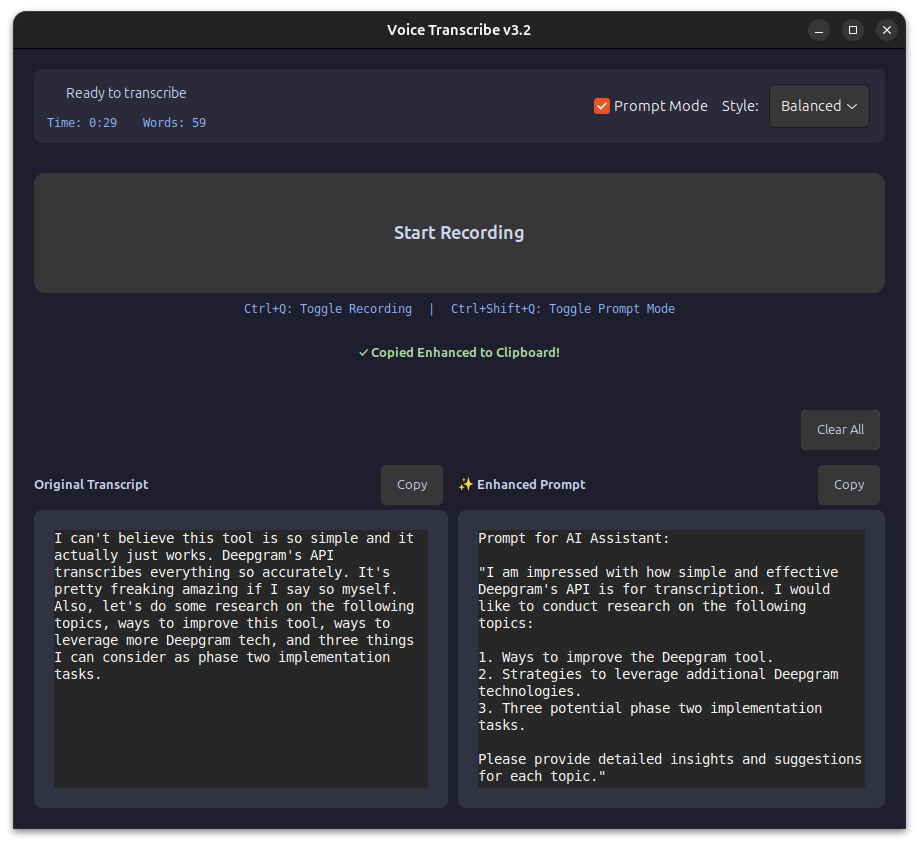
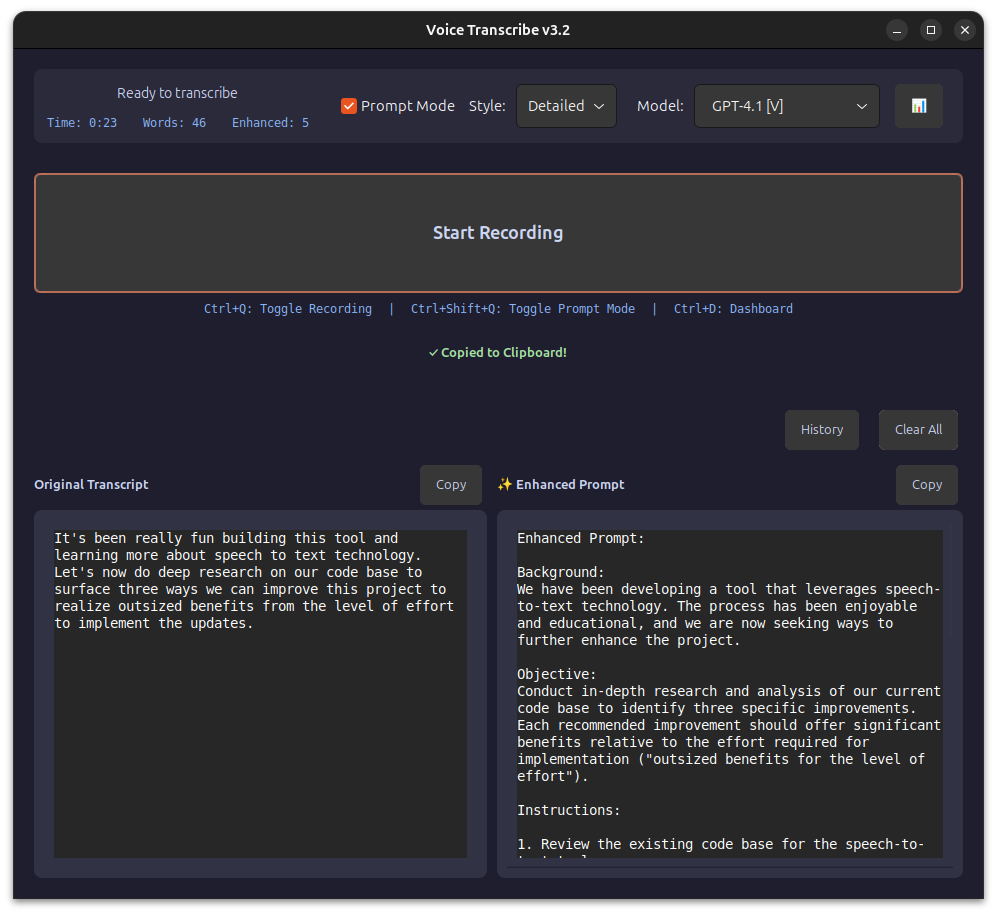
update README

diff --git a/README.md b/README.md
@@ -1,6 +1,11 @@
-# Voice Transcribe v3.2 🎤
+# Voice Transcribe v3.3 🎤
 
 [![CI Pipeline](https://github.com/josephrclick/voice-transcribe/actions/workflows/ci.yml/badge.svg?branch=dev)](https://github.com/josephrclick/voice-transcribe/actions/workflows/ci.yml)
+[![Python](https://img.shields.io/badge/Python-3.8+-blue.svg)](https://python.org)
+[![GTK](https://img.shields.io/badge/GTK-3.0-green.svg)](https://gtk.org)
+[![Deepgram](https://img.shields.io/badge/Deepgram-Nova--3-purple.svg)](https://deepgram.com)
+[![OpenAI](https://img.shields.io/badge/OpenAI-GPT--4.1%20%7C%20GPT--5-orange.svg)](https://openai.com)
+[![Linux](https://img.shields.io/badge/Platform-Linux-yellow.svg)](https://linux.org)
 
 A delightfully simple voice-to-text tool for Linux that just works™. Click button, speak thoughts, get text. Now with ✨ Prompt Mode ✨ for AI-enhanced transcripts!
 
@@ -11,7 +16,7 @@ A delightfully simple voice-to-text tool for Linux that just works™. Click but
 - 🔴 One big button that says "Start Recording" (revolutionary, I know)
 - ⏱ Shows you how long you've been rambling
 - 📊 Counts your words so you know if you're being verbose
-- 📋 Auto-copies to clipboard because Ctrl+C is so 2023
+- 📋 Seamlessly copies to clipboard with modern efficiency
 - 🎨 Dark theme that won't burn your retinas at 3am
 - ⌨ Keyboard shortcuts: Ctrl+Q (record), Ctrl+Shift+Q (Prompt Mode), Ctrl+D (Dashboard)
 - ✨ **NEW: Prompt Mode** - Transforms your rambling into perfect LLM prompts
@@ -104,7 +109,7 @@ cat > ~/.local/share/applications/voice-transcribe.desktop << EOF
 [Desktop Entry]
 Version=1.0
 Type=Application
-Name=Voice Transcribe v3.2
+Name=Voice Transcribe v3.3
 Comment=Speech to text, but cooler
 Exec=$(pwd)/voice-transcribe
 Icon=$(pwd)/images/icon.png
@@ -136,25 +141,7 @@ It's like having a tiny prompt engineer in your computer that takes your stream-
    - **Concise**: For when you need to get to the point
    - **Balanced**: The Goldilocks zone of prompts
    - **Detailed**: For when you need the LLM to really get it
-3. **Select your AI model** (NEW!):
-
-## Available Models
-
-| Model        | Context Window | Max Output | Features        | Tier     | Best For         |
-| ------------ | -------------- | ---------- | --------------- | -------- | ---------------- |
-| GPT-4o Mini  | 128K           | 4,096      | JSON            | Standard | Quick edits      |
-| GPT-4.1 Nano | 1M             | 2,048      | JSON, Verbosity | Economy  | High volume      |
-| GPT-4.1 Mini | 1M             | 4,096      | JSON, Verbosity | Economy  | Longer texts     |
-| GPT-4.1      | 1M             | 8,192      | JSON, Verbosity | Standard | Professional     |
-| GPT-5 Nano   | 400K           | 128,000    | All features    | Economy  | Fast processing  |
-| GPT-5 Mini   | 400K           | 128,000    | All features    | Standard | Creative writing |
-| GPT-5        | 400K           | 128,000    | All features    | Flagship | Complex tasks    |
-
-- **Flagship tier models** offer advanced reasoning capabilities
-- **Context windows**: 128K = ~96K words, 400K = ~300K words, 1M = ~750K words
-- **All models** include automatic fallback chains for reliability
-- Model selection persists between sessions with intelligent fallback handling
-
+3. **Select your AI model** - From economy to flagship tiers with intelligent fallbacks
 4. **Speak naturally** - "um, so like, I need a function that, you know, reads CSVs and stuff"
 5. **Watch the magic** - See a preview while it enhances: "Enhancing: um, so like, I need a function that..."
 6. **Get enhanced** - "Create a Python function that reads CSV files, handles encoding issues, and provides error handling with clear documentation"
@@ -174,7 +161,7 @@ Access comprehensive model information and usage statistics with **Ctrl+D**:
 - **Tier Classifications**: Economy, Standard, and Flagship model comparisons
 - **Context Explanations**: Human-readable descriptions of model capabilities
 
-The dashboard helps you choose the optimal model for specific use cases and understand the trade-offs between speed, capability, and cost.
+The dashboard serves as an excellent learning tool for understanding AI model capabilities and trade-offs. Compare different models' performance characteristics, experiment with various tiers, and gain hands-on experience with cost optimization strategies - perfect for understanding modern AI integration in production applications.
 
 ### Example Transformations
 
@@ -190,13 +177,14 @@ Enhanced: "Create a Python script with these requirements:
 - Include error handling for invalid JSON"
 ```
 
-## Why v3.2?
+## Why v3.3?
 
 - v1: "Hey, this could work!" (Narrator: it didn't)
 - v2: "Let's add ALL the features!" (Spoiler: too many features)
 - v3: "What if we just... made it work?" (Revolutionary concept)
 - v3.1: "What if your rambling made sense?" (Game changer)
 - v3.2: "What if we made it even smoother?" (Quick wins ftw)
+- v3.3: "More models = more learning!" (Because variety is the spice of AI)
 
 ## Features That Actually Exist
 
@@ -228,36 +216,6 @@ Stays visible because out of sight, out of mind, and we can't have that.
 - **Ctrl+Shift+Q**: Toggle Prompt Mode instantly
 - **Ctrl+D**: Open Performance Dashboard with comprehensive model information
 
-## Troubleshooting
-
-**"It's not recording!"**
-
-- Is your mic plugged in? (I'm not judging)
-- `pactl list short sources` - pick a working one
-- `pactl set-default-source <that_working_one>`
-
-**"Where's my transcript?"**
-
-- Did you actually say something?
-- Check your Deepgram API key
-- Is the internet on?
-
-**"Auto-paste isn't working!"**
-
-- Using Wayland? Install `wtype` for auto-paste or use Ctrl+V.
-- On X11? Make sure xdotool is installed and you clicked where you want to paste
-
-**"I see GTK warnings!"**
-
-- They're like participation trophies - everyone gets them, nobody wants them
-- `export GTK_THEME=Adwaita` if they really bug you
-
-**"Prompt Mode isn't working!"**
-
-- Did you add your OpenAI API key to .env?
-- Check if you have OpenAI credits
-- If enhancement fails, you still get the original transcript
-
 ## What's NOT Coming Soon
 
 - 🎯 VAD (Voice Activity Detection) - Buttons are fine, actually
@@ -266,10 +224,9 @@ Stays visible because out of sight, out of mind, and we can't have that.
 
 ## What Might Come Eventually
 
-- 📝 History of your ramblings (and their enhanced versions)
-- 🌍 More language support
-- 🤖 More AI models (GPT-5 ready when it drops!)
-- 📊 A/B testing dashboard to compare model performance
+- ~~📝 History of your ramblings (and their enhanced versions)~~ ✅ Implemented
+- ~~🤖 More AI models (GPT-5 ready when it drops!)~~ ✅ Implemented
+- ~~📊 A/B testing dashboard to compare model performance~~ ✅ Implemented
 - 🎨 Theme customization (for the 3 people who don't like dark mode)
 - 🤖 Direct LLM integration (skip the copy/paste dance)
 - 🎯 Smart routing to different LLMs based on prompt type
